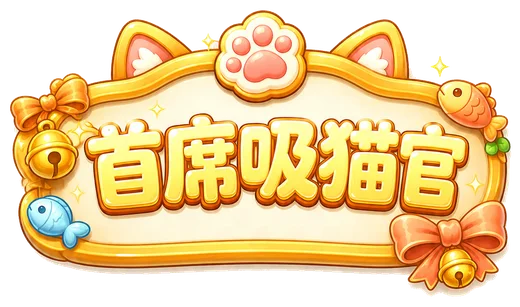
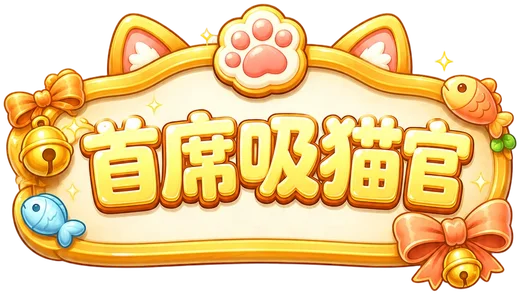
Publish miao demo

diff --git a/index.html b/index.html
@@ -271,7 +271,7 @@
       justify-self: center;
       width: min(326px, 100%);
       min-width: 0;
-      aspect-ratio: 1024 / 604;
+      aspect-ratio: 999 / 567;
       padding: 0;
       border-radius: 0;
       color: #7a3d25;
@@ -355,12 +355,12 @@
 
     .menu-speech {
       position: absolute;
-      right: -10px;
-      top: -32px;
-      width: 142px;
+      right: 5px;
+      top: -20px;
+      width: 118px;
       aspect-ratio: 927 / 707;
       max-width: none;
-      padding: 31px 22px 20px 24px;
+      padding: 26px 18px 16px 20px;
       display: grid;
       place-items: center;
       color: #70401f;
@@ -374,7 +374,7 @@
       background-position: center;
       border: 0;
       box-shadow: none;
-      font-size: 10px;
+      font-size: 9px;
       font-weight: 1000;
       line-height: 1.18;
       text-align: center;
@@ -2352,7 +2352,7 @@
         font-size: 12px;
       }
       .menu-logo {
-        width: min(316px, 100%);
+        width: min(312px, 100%);
       }
       .menu-subtitle {
         font-size: 10px;
@@ -2423,7 +2423,7 @@
         padding-top: 4px;
       }
       .menu-logo {
-        width: min(296px, 100%);
+        width: min(292px, 100%);
         padding: 0;
         border-radius: 0;
       }

diff --git a/miao-demo.html b/miao-demo.html
@@ -271,7 +271,7 @@
       justify-self: center;
       width: min(326px, 100%);
       min-width: 0;
-      aspect-ratio: 1024 / 604;
+      aspect-ratio: 999 / 567;
       padding: 0;
       border-radius: 0;
       color: #7a3d25;
@@ -355,12 +355,12 @@
 
     .menu-speech {
       position: absolute;
-      right: -10px;
-      top: -32px;
-      width: 142px;
+      right: 5px;
+      top: -20px;
+      width: 118px;
       aspect-ratio: 927 / 707;
       max-width: none;
-      padding: 31px 22px 20px 24px;
+      padding: 26px 18px 16px 20px;
       display: grid;
       place-items: center;
       color: #70401f;
@@ -374,7 +374,7 @@
       background-position: center;
       border: 0;
       box-shadow: none;
-      font-size: 10px;
+      font-size: 9px;
       font-weight: 1000;
       line-height: 1.18;
       text-align: center;
@@ -2352,7 +2352,7 @@
         font-size: 12px;
       }
       .menu-logo {
-        width: min(316px, 100%);
+        width: min(312px, 100%);
       }
       .menu-subtitle {
         font-size: 10px;
@@ -2423,7 +2423,7 @@
         padding-top: 4px;
       }
       .menu-logo {
-        width: min(296px, 100%);
+        width: min(292px, 100%);
         padding: 0;
         border-radius: 0;
       }